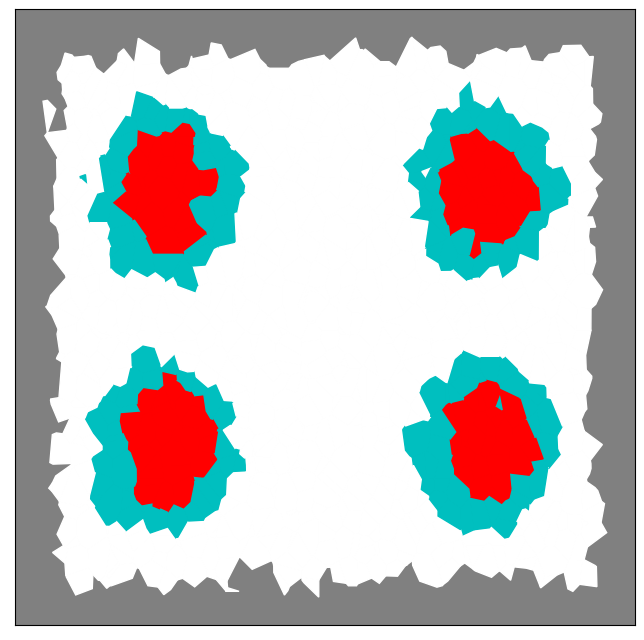
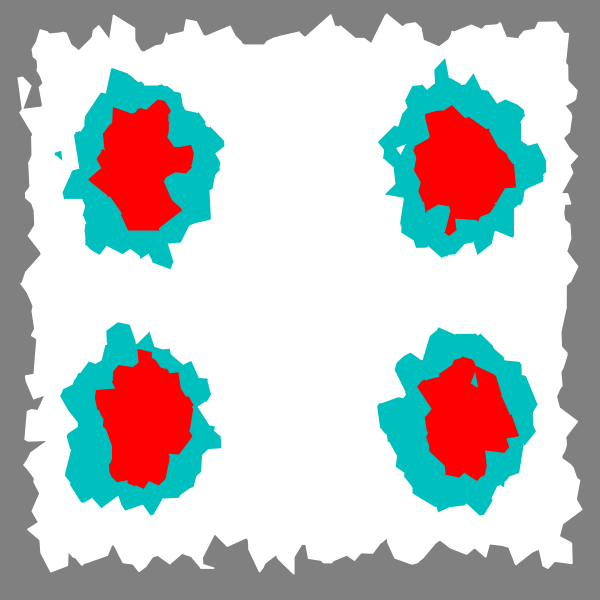
pipeline completed

diff --git a/pipeline/scripts/section.py b/pipeline/scripts/section.py
@@ -157,7 +157,6 @@ def _draw_section(vor, cropped_reg, region_id, palette, h):
             plt.gca().fill(intersection_point[drawing_hull,0],
                     intersection_point[drawing_hull,2],
                     color = palette[region_id[n]])
-    # plt.tight_layout()
     return fig
 
 def _draw_noise(cmap = 'Purples', noise_density = 20):
@@ -196,7 +195,7 @@ def section(iteration_level = 3,
             y = 0,
             N_points = 5000,
             n_slices = [-1, 0, 1],
-            saving_path = None,
+            saving_path = '',
             noise_density = 20,
             plane_distance = 0.05):
     """
@@ -254,25 +253,25 @@ def section(iteration_level = 3,
     #DRAWING and SAVING SETINGS
     #--------------------------------------------------------------------------
     cmap = plt.get_cmap('Purples')
-    palette = [cmap(0.1)[:-1], cmap(0.8)[:-1], cmap(0.4)[:-1]]
+    #palette = [cmap(0.1)[:-1], cmap(0.8)[:-1], cmap(0.4)[:-1]]
     lab_colors = ['w', 'c', 'r']
     dpi = 100
     #Previous palette
-    # palette = [[0.9254902,  0.89411765, 0.91372549], [0.49803922, 0.34509804, 0.58823529], [0.81176471, 0.62745098, 0.78039216]]
+    palette = [[0.9254902,  0.89411765, 0.91372549], [0.49803922, 0.34509804, 0.58823529], [0.81176471, 0.62745098, 0.78039216]]
 
     #Loop for Drawing and Saving every SLICE
     for n_s in n_slices:
         dy = plane_distance * n_s
         fig = _draw_section(vor, cropped_reg, region_id, palette, h = y+dy)
         fig.savefig(os.path.join(saving_path + f'N_{N_points}_seed_{seed}_sl_{n_s}.png'),
-                    bbox_inches='tight',
+                    #bbox_inches='tight',
                     dpi=dpi)
         plt.close(fig)
 
     #Drawing the LABEL image
     fig = _draw_section(vor, cropped_reg, region_id, lab_colors, h = y)
-    fig.savefig(os.path.join(saving_path + f'N_{N_points}_seed_{seed}_label.png'),
-                bbox_inches='tight',
+    fig.savefig(os.path.join(saving_path + f'N_{N_points}_seed_{seed}_label_uncropped.png'),
+                #bbox_inches='tight',
                 dpi=dpi)
     plt.close(fig)
 

diff --git a/pipeline/scripts/add_noise.py b/pipeline/scripts/add_noise.py
@@ -1,17 +1,11 @@
 import numpy as np
 import matplotlib.pyplot as plt
 
-# average = plt.imread(snakemake.input[0])
-# noise = plt.imread(snakemake.input[1])
+average = plt.imread(snakemake.input[0])
+noise = plt.imread(snakemake.input[1])
 
-average = plt.imread('../N_6000_seed_42_average.png')
-noise = plt.imread('../N_6000_seed_42_noise.png')
-
-average.shape
-noise.shape
-
-
+crop = (slice(110,710), slice(110,710))
 
 f_n = 0.8
-output = np.divide(average + f_n*noise, 1+f_n)
+output = np.divide(average[crop] + f_n*noise[crop], 1+f_n)
 plt.imsave(f'N_{snakemake.wildcards.N_points}_seed_{snakemake.wildcards.seed}_average+noise.png',output)

diff --git a/pipeline/scripts/crop_label.py b/pipeline/scripts/crop_label.py
@@ -1,0 +1,8 @@
+import numpy as np
+import matplotlib.pyplot as plt
+
+images = plt.imread(snakemake.input[0])
+
+crop = (slice(110,710), slice(110,710))
+
+plt.imsave(f'N_{snakemake.wildcards.N_points}_seed_{snakemake.wildcards.seed}_label.png',images[crop])
